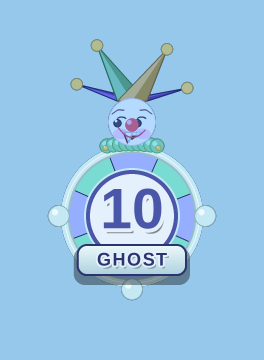
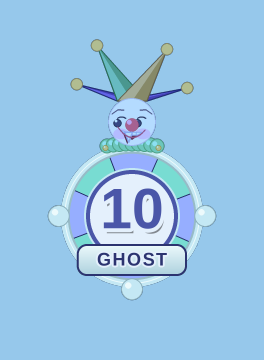
Ghost nameplate: drop the shadows (plate cast shadow + text shadow)
Remove the soft drop shadow under the GHOST nameplate and the drop shadow on the
GHOST text, leaving the chrome gradient + navy keyline + top catch-light. Easy to
re-add.

Changed region(s): [[0.2727, 0.7028, 0.7273, 0.7944]]

diff --git a/game/warren_celebration.py b/game/warren_celebration.py
@@ -145,16 +145,12 @@ def _chrome_vgrad(canvas, rect, rr, ss):
 def _ghost_nameplate(canvas, cx, cy, R, ss):
     """The GHOST flavour label as an icy-chrome nameplate INSET into the lower wheel
     face (design loop winner "V5-A"): a top-down periwinkle chrome gradient matching
-    the rim, a top catch-light, a deep-navy keyline frame + soft drop shadow so it
-    seats ON the wheel, and GHOST in deep navy at open tracking ~half the number
-    height — the rolled number stays the hero, this just names the result."""
+    the rim, a top catch-light, and a deep-navy keyline frame, with GHOST in deep navy
+    at open tracking ~half the number height — the rolled number stays the hero, this
+    just names the result. (Drop shadows are intentionally off here.)"""
     w, h = int(R * 1.52), int(30 * ss)
     rect = pygame.Rect(int(cx - w / 2), int(cy - h / 2), w, h)
     rr = int(9 * ss)
-    # Soft drop shadow (kept light so the bottom rim stud below stays crisp).
-    sh = pygame.Surface((rect.w + int(8 * ss), rect.h + int(8 * ss)), pygame.SRCALPHA)
-    pygame.draw.rect(sh, (0, 0, 0, 95), sh.get_rect(), border_radius=rr + int(2 * ss))
-    canvas.blit(sh, (rect.x - int(4 * ss), rect.y + int(2 * ss)))
     # Deep-navy keyline frame (matches the number's outline system), then chrome fill.
     pygame.draw.rect(canvas, GH_INDIGO_DK, rect.inflate(int(2 * ss), int(2 * ss)),
                      border_radius=rr + int(1 * ss))
@@ -163,7 +159,7 @@ def _ghost_nameplate(canvas, cx, cy, R, ss):
                      (rect.right - rr, rect.y + max(1, int(ss))), max(1, int(ss)))
     pygame.draw.rect(canvas, GH_INDIGO_DK, rect, max(1, int(ss)), border_radius=rr)
     _flat_text(canvas, "GHOST", cx, cy - int(ss), ss, size=18,
-               fill=GH_INDIGO_DK, edge=GH_CREAM, edge_w=2, shadow_a=70,
+               fill=GH_INDIGO_DK, edge=GH_CREAM, edge_w=2, shadow_a=0,
                letter_spacing=1.12)
 
 
